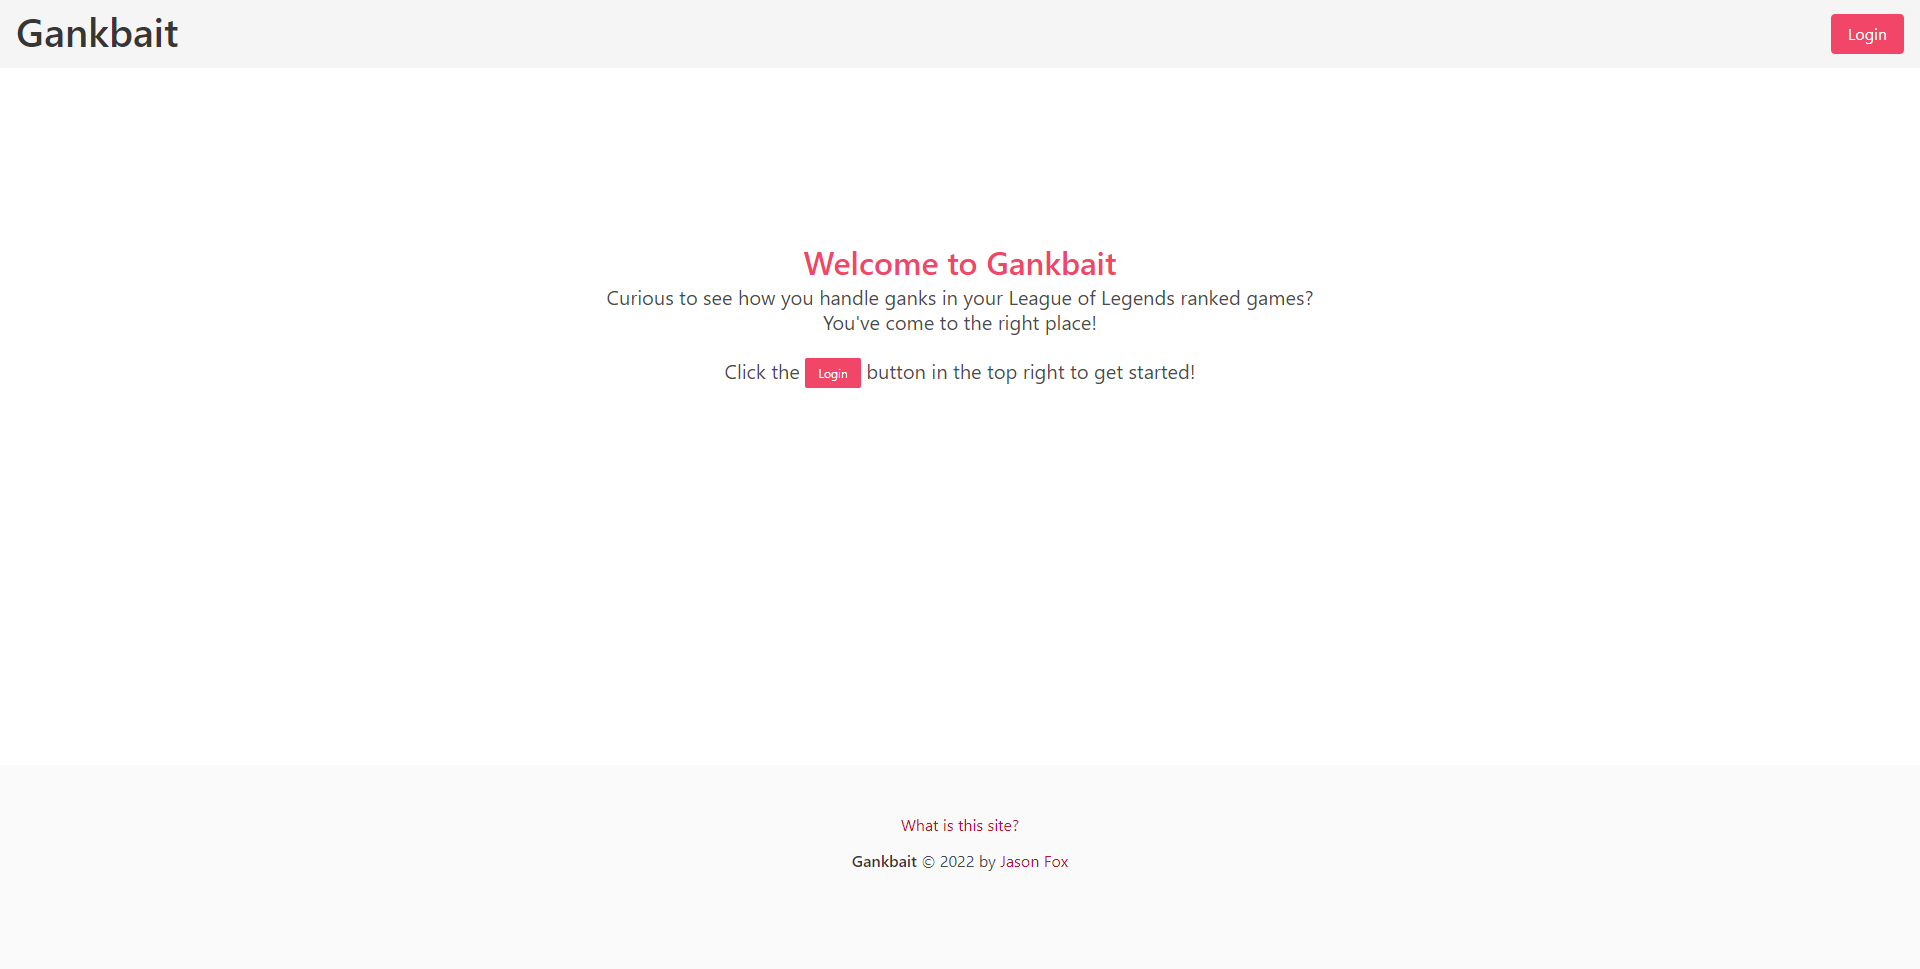
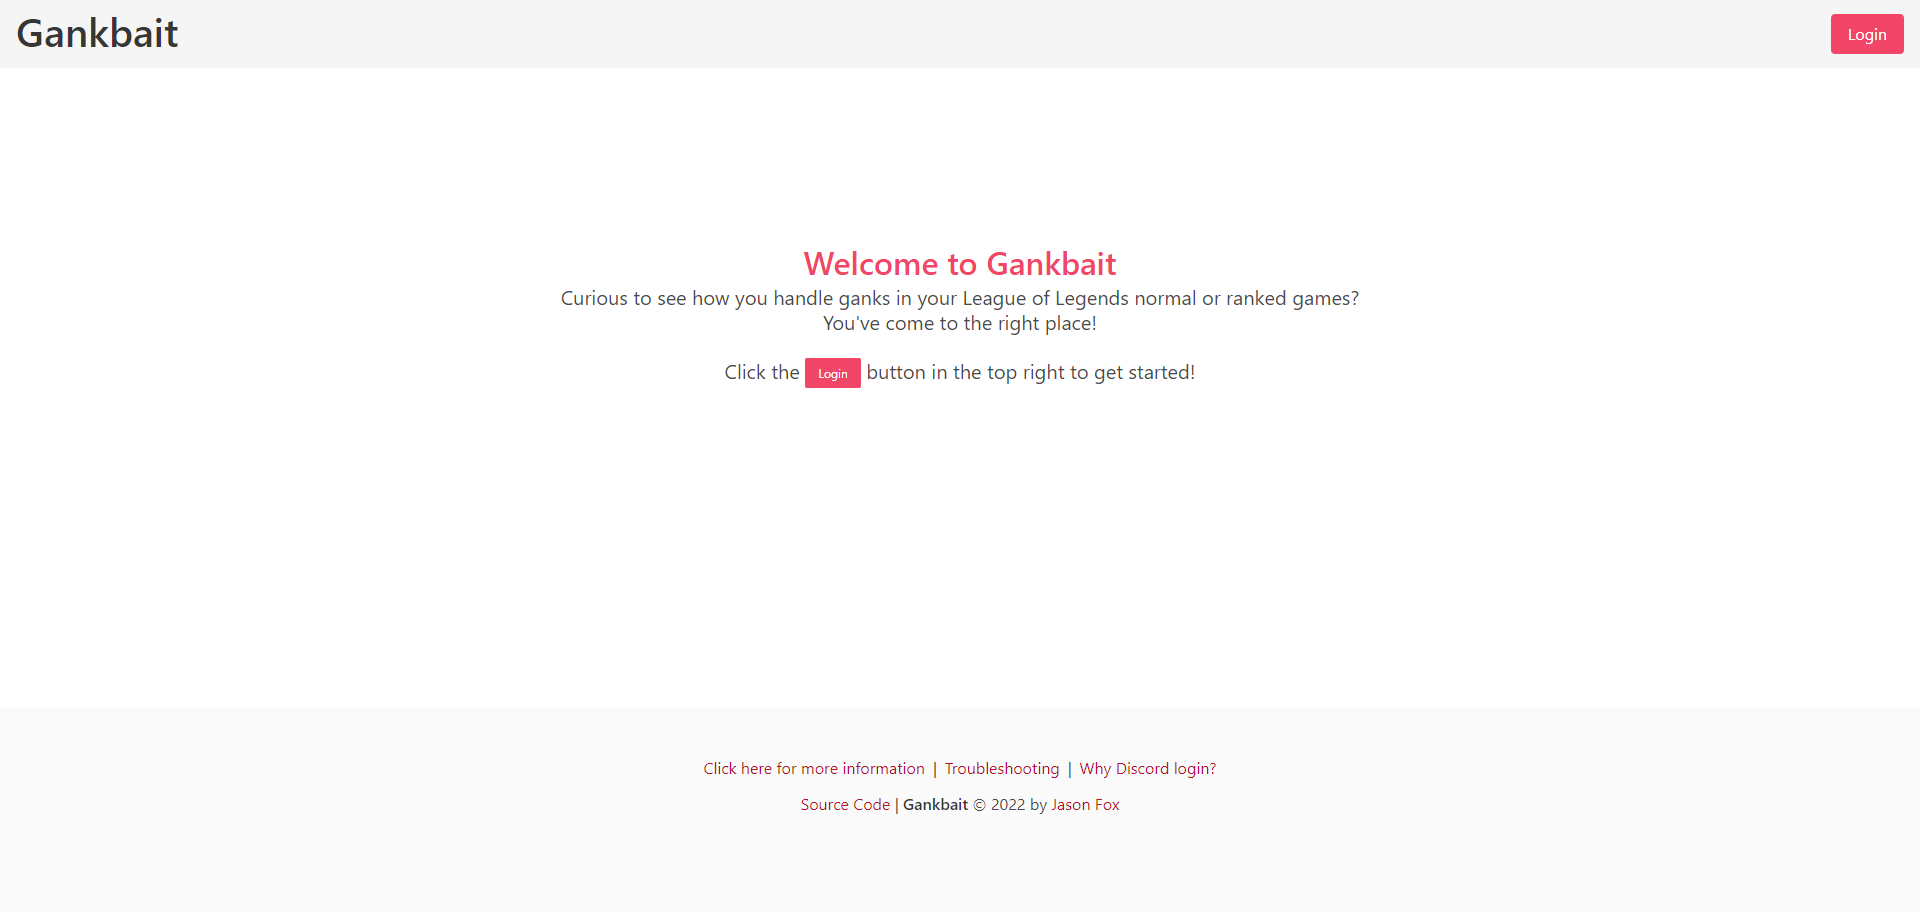
Add support for queue type selection

diff --git a/public/index.js b/public/index.js
@@ -1,6 +1,7 @@
 const formStatus = $('#form-status');
 const nameInput = $('#name-input');
 const regionInput = $('#region-input');
+const queueInput = $('#queue-input');
 const formSubmitBtn = $('#form-submit');
 const nameLabel = $('#summoner-name');
 const statsDisplay = $('#stats-container');
@@ -9,7 +10,7 @@ const statsError = $('#stats-error');
 const statsTitle = $('#stats-title');
 const statsOwner = $('#stats-owner');
 const updateBtn = $('#btn-update');
-const dismissBtn = $('#dismiss-error')
+const dismissBtn = $('#dismiss-error');
 
 const toggleStats = (state = null, msg) => {
   switch (state) {
@@ -32,7 +33,7 @@ const toggleStats = (state = null, msg) => {
   }
 }
 
-const toggleForm = (state = null) => {
+const toggleForm = (state = null, msg) => {
   formStatus.classList.remove('is-success', 'is-danger');
   nameInput.classList.remove('is-success', 'is-danger');
   formStatus.textContent = '';
@@ -57,29 +58,37 @@ const toggleForm = (state = null) => {
 const getStats = async () => {
   toggleStats('loading');
   const res = await fetch('/api/matches');
-  if (res.ok) return document.location.reload();
-  if (res.status  === 429) return toggleStats('error', 'You are sending too many requests! Limit: 1 request per minute.')
-  const err = await res.json();
-  toggleStats('error', err.message);
+  switch (res.status) {
+    case 200: return document.location.reload();
+    case 204: return toggleStats('error', 'No matches found for the selected queue type. Go play some games and come back so we can have data to analyze!')
+    case 429: return toggleStats('error', 'You are sending too many requests! Limit: 1 request per minute.');
+    default:
+      const err = await res.json();
+      toggleStats('error', err.message);
+      break;
+  }
 }
 
 onClick(formSubmitBtn, async () => {
   toggleForm();
+  const regionSel = $('#region-input').options[$('#region-input').selectedIndex].value;
+  const queueSel = $('#queue-input').options[$('#queue-input').selectedIndex].value;
   const namesMatch = nameLabel.textContent === statsOwner.textContent;
-  console.log(namesMatch, nameLabel.textContent, statsOwner.textContent)
-  if (!nameInput.value.length && namesMatch) return toggleForm('fail', 'Field cannot be empty.');
-  if (nameLabel.textContent === nameInput.value) return toggleForm('fail', 'You have already set this summoner name.')
+  const selectMatch = regionSel === nameLabel.dataset.region && queueSel === nameLabel.dataset.queue;
 
-  if (!namesMatch) {
+  if (!nameInput.value.length && namesMatch && selectMatch) return toggleForm('fail', 'Field cannot be empty.');
+  if (nameLabel.textContent === nameInput.value && selectMatch) return toggleForm('fail', 'You have already set this summoner name.')
+
+  if (!namesMatch && selectMatch) {
     statsTitle.textContent = 'Stats for ' + nameLabel.textContent
     toggleStats('loading');
     return getStats();
   }
 
-  const selected = regionInput.options[regionInput.selectedIndex].value
   const data = {
-    name: nameInput.value,
-    region: selected
+    name: nameInput.value || nameLabel.textContent,
+    region: regionSel,
+    queue: queueSel
   }
 
   const res = await fetch('/api/summoner', {
@@ -89,6 +98,8 @@ onClick(formSubmitBtn, async () => {
     },
     body: JSON.stringify(data),
   });
+
+  if (res.status === 204) return toggleForm('fail', 'Summoner name not found in selected region.');
 
   if (res.ok) {
     const summoner = await res.json();
@@ -107,4 +118,6 @@ dismissBtn && onClick(dismissBtn, () => document.location.reload());
 window.onload = () => {
   toggleForm();
   toggleStats();
+  regionInput.value = nameLabel.dataset.region;
+  queueInput.value = nameLabel.dataset.queue;
 }

diff --git a/routes/api/index.js b/routes/api/index.js
@@ -14,7 +14,7 @@ const apiLimiter = rateLimit({
 
 router.put('/summoner', authenticateToken, async ({ userData, body }, res) => {
   const { id } = userData;
-  const { name, region } = body;
+  const { name, region, queue } = body;
 
   try {
     const requestURL = `https://${region}.api.riotgames.com/lol/summoner/v4/summoners/by-name/${name}`;
@@ -26,12 +26,14 @@ router.put('/summoner', authenticateToken, async ({ userData, body }, res) => {
       summonerName: data.name,
       summonerId: data.id,
       summonerPuuid: data.puuid,
-      region
+      region,
+      queue
     });
     return res.status(200).json({ name: data.name });
   } catch (err) {
-    console.error(err.stack || err);
-    return res.status(404);
+    console.error(err.stack || err.response || err);
+    if (err.response?.status === 404) return res.sendStatus(204);
+    return res.sendStatus(500);
   }
 });
 
@@ -50,12 +52,17 @@ router.get('/matches', [authenticateToken, apiLimiter], async ({ userData }, res
   }
 
   const dbUser = await User.get({ id });
+  const clearStats = async () => await User.update({ id }, { "$REMOVE": ["stats"] });
   try {
-    const { summonerId, summonerName, summonerPuuid, region } = dbUser;
+    const { summonerId, summonerName, summonerPuuid, region, queue } = dbUser;
     console.log('Analyzing data for', summonerName);
     const apiURL = `https://${regionRoute(region)}.api.riotgames.com/lol/match/v5/matches/`
 
-    const matchIds = await axios.get(`${apiURL}by-puuid/${summonerPuuid}/ids`, rgapiAxiosConfig);
+    const matchIds = await axios.get(`${apiURL}by-puuid/${summonerPuuid}/ids/?${queue === 'ranked' ? 'type=ranked' : 'queue=400'}`, rgapiAxiosConfig);
+    if (!matchIds.data.length) {
+      await clearStats();
+      return res.sendStatus(204);
+    }
 
     const matchTeams = [];
     const matchResults = [];
@@ -91,8 +98,8 @@ router.get('/matches', [authenticateToken, apiLimiter], async ({ userData }, res
     await User.update({ id }, { ...dbUser, stats });
     return res.sendStatus(200);
   } catch (err) {
-    console.error(err.stack || err);
-    if (dbUser.stats && dbUser.stats.summonerName !== dbUser.summonerName) await User.update({ id }, { "$REMOVE": ["stats"] });
+    console.error(err.stack || err.response || err);
+    if (dbUser.stats && dbUser.stats.summonerName !== dbUser.summonerName) await clearStats();
     const message = err.response?.status === 429 ?
       'The API is currently handling too many requests and is being rate limited by the Riot API, please wait a minute before trying another request' :
       'The server encountered an error processing the request or the request timed out.'

diff --git a/routes/index.js b/routes/index.js
@@ -65,7 +65,7 @@ router.get('/login', checkToken, async (req, res) => {
       })
       .redirect('/')
   } catch (err) {
-    console.error(err.stack || err);
+    console.error(err.stack || err.response || err);
     return res.status(500).json({ message: 'An internal server error occurred' });
   }
 });

diff --git a/models/index.js b/models/index.js
@@ -15,6 +15,7 @@ const UserSchema = new dynamoose.Schema({
   "summonerId": String,
   "summonerPuuid": String,
   "region": String,
+  "queue": String,
   "stats": {
     type: Object,
     schema: {

diff --git a/README.md b/README.md
@@ -20,7 +20,7 @@
 The name comes from an inside joke that started from something a teammate said when my friend and I were playing [League of Legends](https://www.leagueoflegends.com/en-us/) ranked. In the game, there is a **jungler** role involves constantly traversing the map and can visit and intervene in any of the 3 lanes- this is called **ganking**. Both teams have junglers that can gank, but where and how often depends on the jungler player. When my friend and I play, it often feels like the enemy jungler ganks our lane far more often than ours does. One day, we came with the idea to track ganks on a spreadsheet to see if this bias was true. This gave me an idea to create an app to evaluate related stats from match history with the [Riot API](https://developer.riotgames.com/apis).
 
 ## Description 
-Gankbait is a single-page application that utilizes the [Riot API](https://developer.riotgames.com/apis) and data processing to produce estimated statistics for a player's [League of Legends](https://www.leagueoflegends.com/en-us/) ranked match history, up to the latest 20 matches. Stats are split between 2 types of roles, jungle and non-jungle. The application allows for a user to set the player to analyze stats for by **summoner name** and **region**, and saves the last result for quick loading when revisiting or refreshing the page. There is also a button to re-analyze player match data from newer games without having to update summoner name.
+Gankbait is a single-page application that utilizes the [Riot API](https://developer.riotgames.com/apis) and data processing to produce estimated statistics for a player's [League of Legends](https://www.leagueoflegends.com/en-us/) normal or ranked match history, up to the latest 20 matches. Stats are split between 2 types of roles, jungle and non-jungle. The application allows for a user to set the player to analyze stats for by **summoner name** and **region**, and saves the last result for quick loading when revisiting or refreshing the page. There is also a button to re-analyze player match data from newer games without having to update summoner name.
 
 ## Resources
 - [Discord OAuth2](https://discord.com/developers/docs/topics/oauth2) for login
